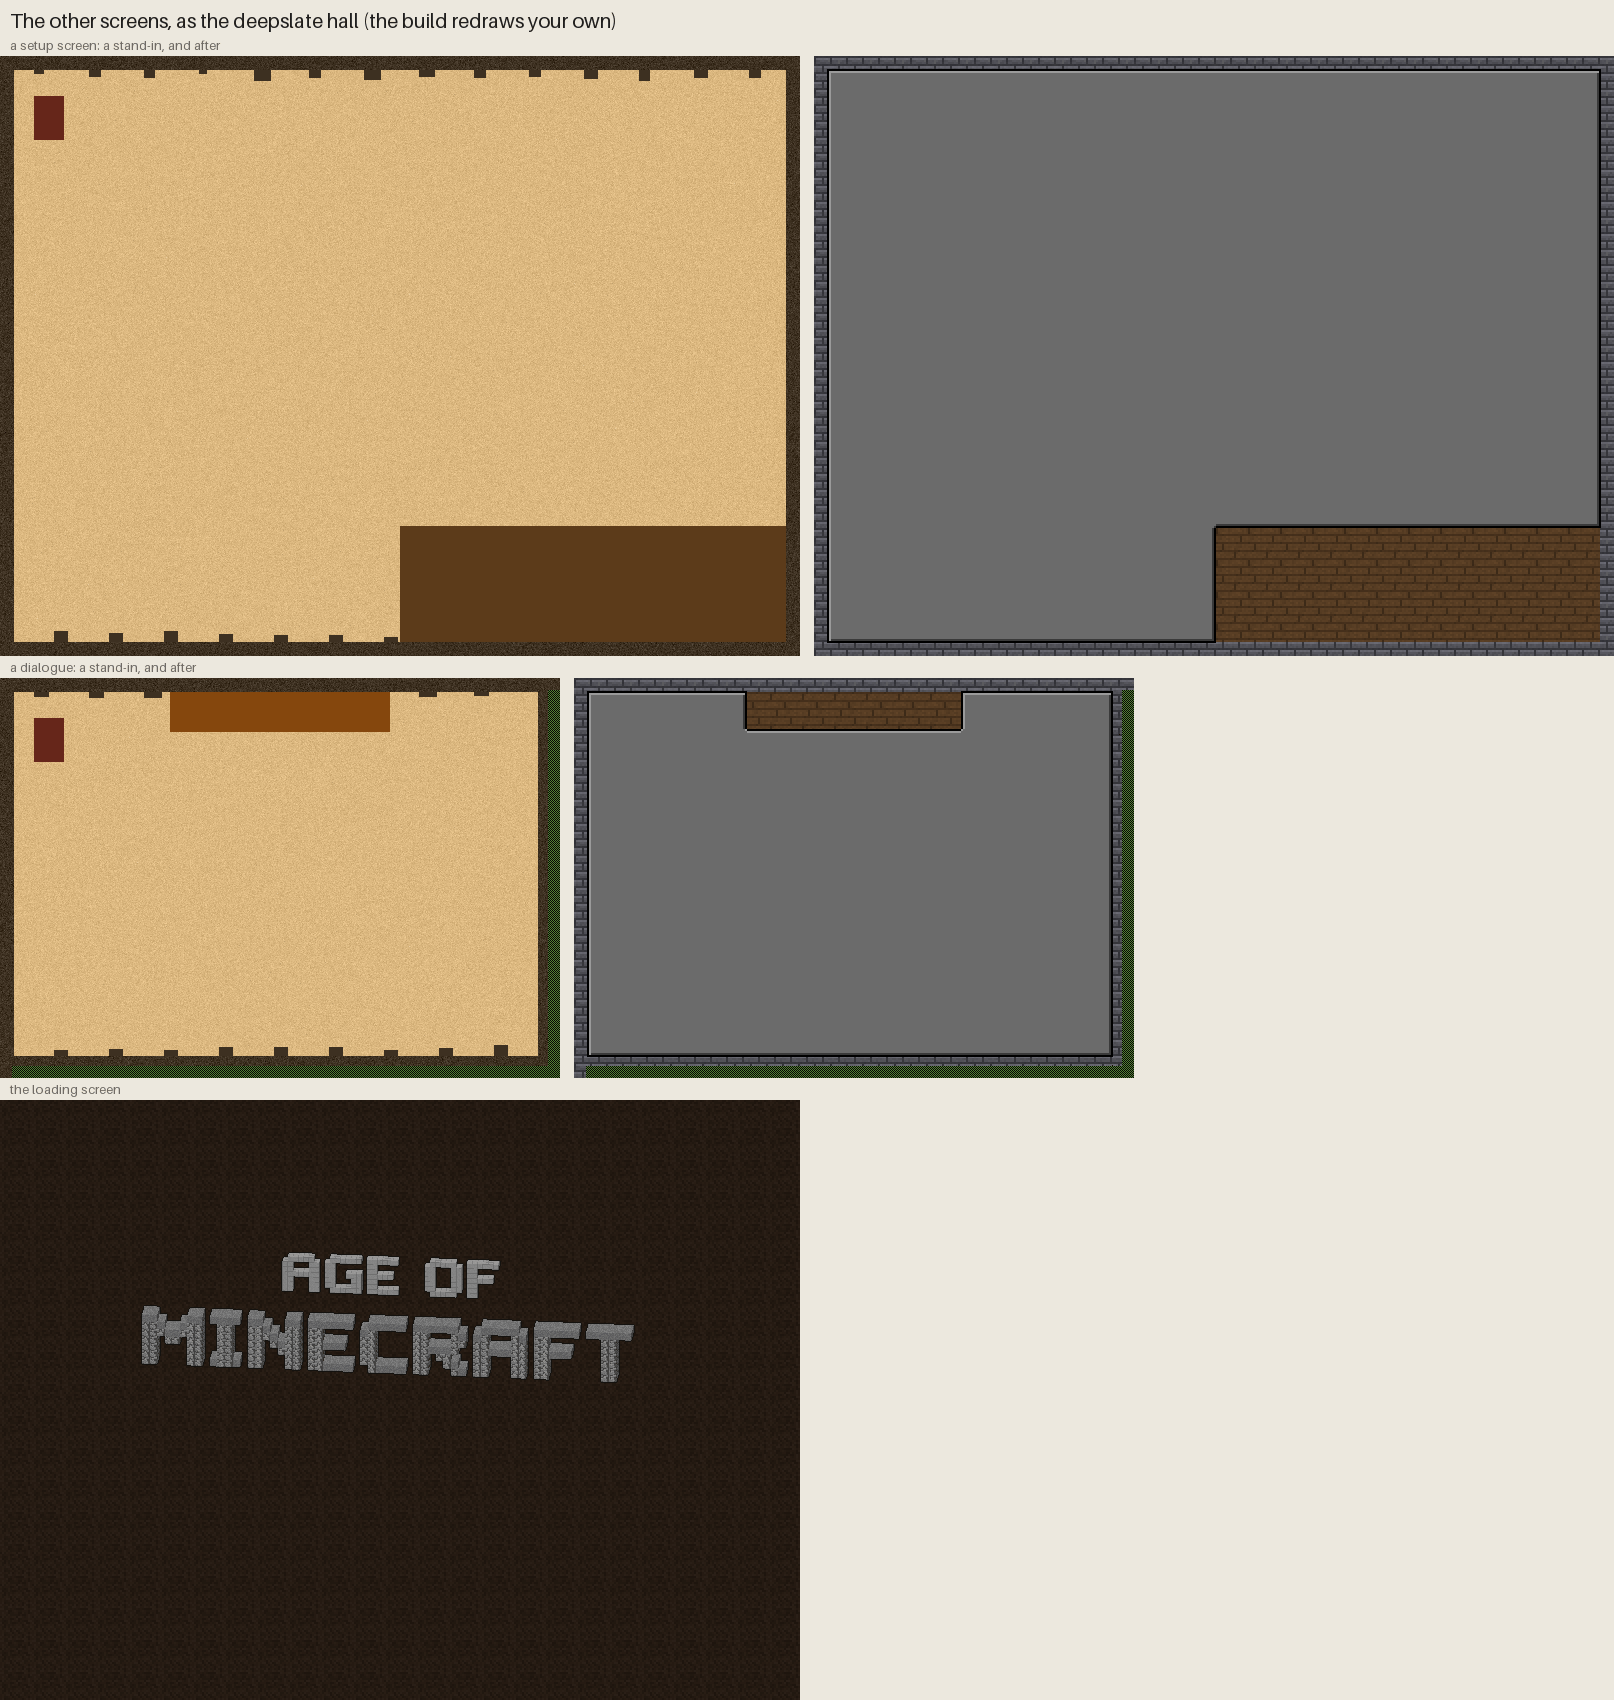
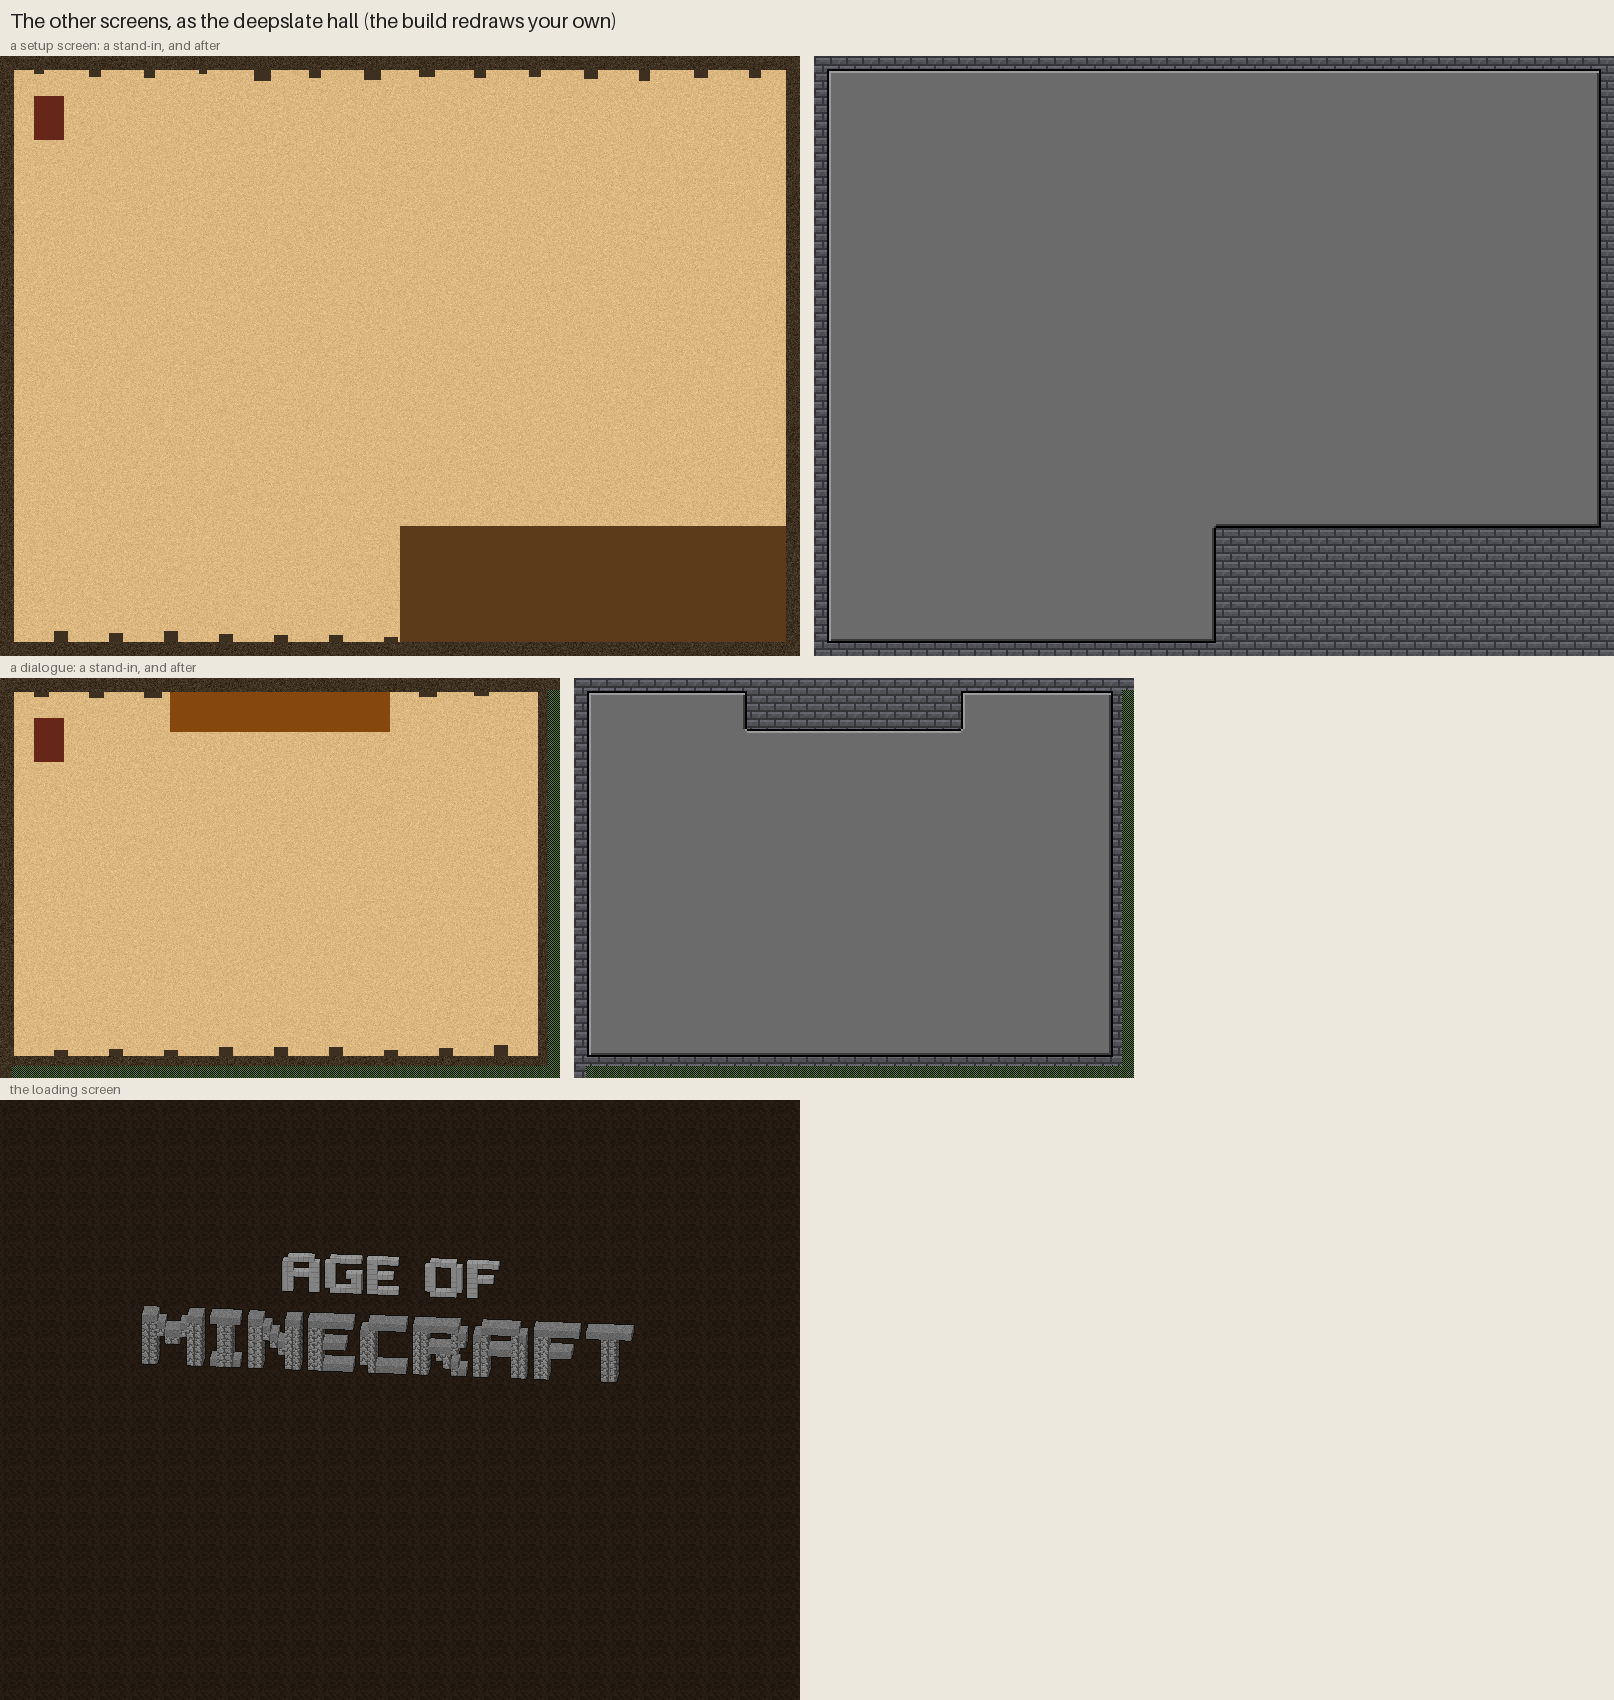
Use one border material per screen, never stone and wood mixed
Around the windows, the frames became deepslate and anything wooden (crates,
title plaques, table edges) dark oak. On one screen that gave a patchwork of
stone and wood that did not look right. Each picture now has one material
all around: deepslate on the setup screens, the history, the custom
campaigns and the dialogues in the game; dark oak on the campaigns'
dialogues and the achievements, whose dark tabs would be lost on deepslate.

Changed region(s): [[0.7435, 0.3118, 0.9913, 0.4053], [0.4647, 0.4053, 0.6196, 0.4365]]

diff --git a/tools/aom/screens.py b/tools/aom/screens.py
@@ -7,16 +7,14 @@ with one setting per line: its background pictures for 800x600, 1024x768 and 128
 (plus every other large picture in interfac.drs); the build saves them as PNG files (screen_originals/) and lists
 the screen files in the report.
 
-Almost every screen is a light parchment the game writes on, in black or in light text with a black shadow. So
-the "deepslate hall" keeps the parchment as light as it was: each sheet becomes a window in the grey of
-Minecraft's inventory, with straight edges (its tears filled, what sticks out cut off) and Minecraft's bevel;
-the dark frames around it become deepslate tiles and the wood (crates, the plaques titles are written on) dark oak
-planks, as dark as the original. Pictures without parchment (the achievements, the blue and green dialogue
-backgrounds) are one solid colour, the grey of Minecraft's inventory slots: the game writes the achievements in
-each player's colour, and on a texture or a dark or light background some of those can't be read. A wooden board
-is solid dark oak. The loading screen is Minecraft's dark dirt with the block logo in grey stone. The
-achievements' flags become Minecraft banners in their own colours, with a black stripe where the game writes each
-player's name (in white, or in a colour the game chooses, which can be the flag's own).
+Almost every screen is a parchment the game writes on, in white, in cream with a black shadow, in black or in the
+players' colours. The "deepslate hall" makes each sheet a Minecraft window (straight edges: its tears filled, what
+sticks out cut off; Minecraft's bevel) in a middle grey on which all of those can be read (`WINDOWS`), and
+everything around it one material: deepslate tiles, or dark oak planks for the pictures in WOODEN. The
+achievements are a dark window, their flags Minecraft banners with a black stripe for the names, their tabs
+Minecraft tabs and their team marks numbered shields. Pictures without parchment (the dark dialogue backgrounds)
+are one solid dark grey, a wooden board solid dark oak. The loading screen is Minecraft's dark dirt with the block
+logo in grey stone.
 
 Each picture is drawn in every palette the game shows it in (`quantise`), and only the pictures in RESTYLED, at
 those sizes, are changed.
@@ -59,10 +57,13 @@ SHOWN_WITH = {FLAGS: 50061, TABS: 50061, TEAMS: 50061}  # no screen file names t
 LAYOUTS = {  # sheets that are given, not found: (x0, y0, x1, y1) on the picture
     50104: {"insets": [(503, 50, 790, 495)]},  # the game settings' own sheet
     50161: {"sheets": [(0, 10, 251, 588), (262, 10, 792, 588)], "insets": [(8, 18, 238, 390)]},  # the history book
-    50149: {"sheets": [(26, 0, 800, 540)], "window": "dark", "wood": [(0, 540, 800, 600)]},  # the achievements:
-    # white titles and every player's colour on a dark sheet; the tabs sit on the wooden table under it
+    50149: {"sheets": [(26, 0, 800, 540)], "window": "dark"},  # the achievements: white titles and every
+    # player's colour on a dark sheet; the tabs sit on the (wooden) table under it
     50763: {"window": "dark"},  # the timeline's background
 }
+# one material around the windows of a picture: deepslate, or dark oak for these (the campaigns' dialogues, and the
+# achievements, whose dark tabs would be lost on deepslate)
+WOODEN = {53161, 53162, 53163, 53164, 53171, 53172, 53173, 53174, 50149}
 LUMA = I.LUMA
 PAPER, DARK = 0.38, 0.45  # parchment is lighter than PAPER; a picture darker than DARK on average is all deepslate
 STONE, WOOD = 0.3, 0.24  # how light the deepslate and the planks are
@@ -290,12 +291,9 @@ def hall(rgb: np.ndarray, opaque: np.ndarray, sid: int = 0) -> np.ndarray:
         board = wood.sum() > 0.5 * rest.sum()  # a wooden board
         out[rest & ~shadow] = tex * WOOD / (tex @ LUMA) if board else colour(SOLID)[:3]
         return out
-    wood = _boxes(_opening(wood, 3), 0.01 * opaque.size) & rest & ~shadow
-    for x0, y0, x1, y1 in LAYOUTS.get(sid, {}).get("wood", []):
-        wood[y0:y1, x0:x1] = rest[y0:y1, x0:x1]
-    stone = rest & ~shadow & ~wood
-    out[stone] = _tiled("deepslate_tiles", opaque.shape, STONE)[stone]
-    out[wood] = _tiled("dark_oak_planks", opaque.shape, WOOD)[wood]
+    border = rest & ~shadow  # all of it one material: a mix of stone and wood doesn't look right
+    material = ("dark_oak_planks", WOOD) if sid in WOODEN else ("deepslate_tiles", STONE)
+    out[border] = _tiled(material[0], opaque.shape, material[1])[border]
     lay = LAYOUTS.get(sid, {})
     whole = paper.all() or (opaque.all() and paper.mean() > 0.97)
     fill, light, shade = WINDOWS[lay.get("window", "mid")]

diff --git a/docs/DESIGN.md b/docs/DESIGN.md
@@ -206,10 +206,10 @@ lists them in the report and saves them as `screen_originals\`.
 Almost all of them are parchment, and the game writes on it in white, in
 cream with a black shadow, in black, or in the players' colours. The **deepslate
 hall** makes each sheet a Minecraft window in a middle grey, where all of those
-can be read, with straight edges and Minecraft's light and dark bevel, and
-everything around it deepslate tiles. The wood (the crate the setup screen's
-buttons sit on, the plaques titles are written on in white) becomes dark oak
-planks. The history book gets two grey pages, with its list of topics sunk in.
+can be read, with straight edges and Minecraft's light and dark bevel.
+Everything around the windows of one picture is one material, never a mix:
+deepslate tiles, or dark oak planks for the campaigns' dialogues and the
+achievements (their dark tabs would be lost on deepslate). The history book gets two grey pages, with its list of topics sunk in.
 The loading screen is Minecraft's dark dirt with the block logo in grey stone
 (its palette has greys, not gold or green).
 

diff --git a/CLAUDE.md b/CLAUDE.md
@@ -65,7 +65,8 @@ putting `tools/` on `sys.path`.
    - The other screens (`screens.RESTYLED`: setup screens, dialogues, history, achievements, loading screen 50163) are
      found through the screen files (`screens.read`, `Game.screens`) and redrawn by `screens.hall`: parchment
      (`screens.sheets`) becomes a window in a middle grey (`screens.WINDOWS`: white, cream, black and player colours
-     all readable), frames deepslate, wood dark oak; the achievements and timeline are the dark window. `screens.quantise` picks
+     all readable); everything around it one material, deepslate or dark oak (`WOODEN`), never mixed (the player
+     asked for that); the achievements and timeline are the dark window. `screens.quantise` picks
      colours good in every palette a picture is shown in; `LAYOUTS` gives the sheets of a few pictures by hand.
      Pictures without parchment are one solid colour (the game writes scores in player colours on them). The
      achievements' flags (`screens.FLAGS`, no screen file names them: `SHOWN_WITH` gives the achievements' palette)
